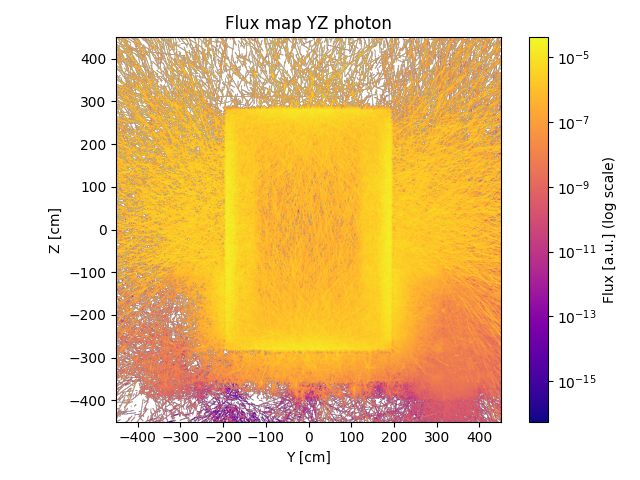
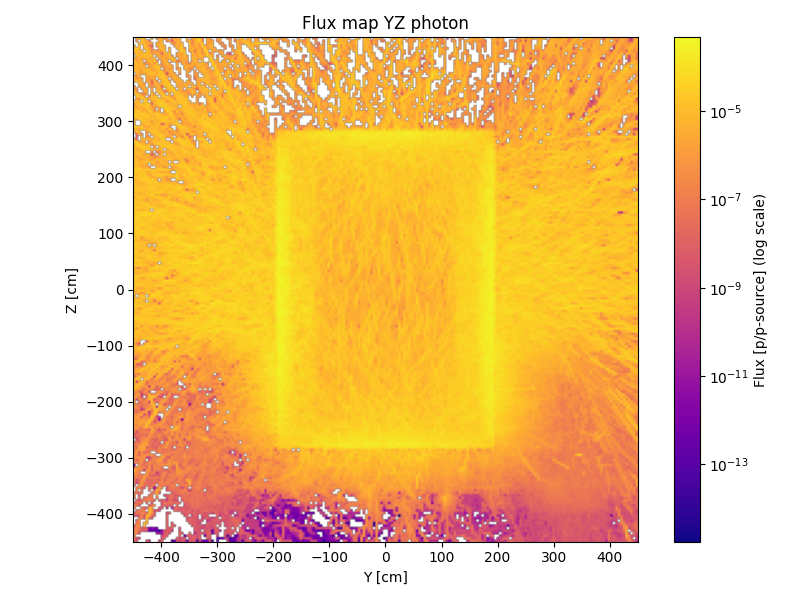
feat:add_plot_error_option

diff --git a/src/utils/post_preocessing/post_processing.py b/src/utils/post_preocessing/post_processing.py
@@ -14,7 +14,7 @@ def print_calculation_finished():
 
 def load_mesh_tally(cwd, statepoint_file: object, name_mesh_tally:str = "flux_mesh_tally", particule_type:str='neutron',
                     bin_number:int=400, lower_left:tuple=(-10.0, -10.0), 
-                    upper_right:tuple=(10.0, 10.0), zoom_x:tuple=(-10, 10), 
+                    upper_right:tuple=(10.0, 10.0), zoom_x:tuple=(-10, 10), plot_error:bool=False,
                     zoom_y:tuple=(-10.0, 10.0), plane:str = "xy", saving_figure:bool = True):
     """
     Load and plot the mesh tally from the statepoint file.
@@ -35,29 +35,81 @@ def load_mesh_tally(cwd, statepoint_file: object, name_mesh_tally:str = "flux_me
     """
     mesh_tally = statepoint_file.get_tally(name=name_mesh_tally)
     flux_data = mesh_tally.mean.reshape((bin_number, bin_number))
-    plt.imshow(flux_data, 
-            origin='lower', 
-            extent=[lower_left[0], upper_right[1], lower_left[1], upper_right[1]], 
+    flux_error = mesh_tally.std_dev.reshape((bin_number, bin_number))
+
+    if plot_error:
+        fig, axs = plt.subplots(1, 2, figsize=(14, 6))
+
+        # Plot flux_data
+        im0 = axs[0].imshow(
+            flux_data,
+            origin='lower',
+            extent=[lower_left[0], upper_right[1], lower_left[1], upper_right[1]],
             cmap='plasma',
-            norm=LogNorm(vmin=np.min(flux_data[flux_data!=0]), vmax=flux_data.max()))  
-    plt.colorbar(label='Flux [a.u.] (log scale)')
-    if plane == "xy":
-        plt.title(f"Flux map XY {particule_type}")
-        plt.xlabel('X [cm]')
-        plt.ylabel('Y [cm]')
-    elif plane == "xz":
-        plt.title(f'Flux map XZ {particule_type}')
-        plt.xlabel('X [cm]')
-        plt.ylabel('Z [cm]')
-    elif plane == "yz":
-        plt.title(f'Flux map YZ {particule_type}')
-        plt.xlabel('Y [cm]')
-        plt.ylabel('Z [cm]')
-    else:
-        raise ValueError("plane must be 'xy', 'xz', or 'yz'")
+            norm=LogNorm(vmin=np.min(flux_data[flux_data != 0]), vmax=flux_data.max())
+        )
+        axs[0].set_title(f"Flux map {plane.upper()} {particule_type}")
+        if plane == "xy":
+            axs[0].set_xlabel('X [cm]')
+            axs[0].set_ylabel('Y [cm]')
+        elif plane == "xz":
+            axs[0].set_xlabel('X [cm]')
+            axs[0].set_ylabel('Z [cm]')
+        elif plane == "yz":
+            axs[0].set_xlabel('Y [cm]')
+            axs[0].set_ylabel('Z [cm]')
+        else:
+            raise ValueError("plane must be 'xy', 'xz', or 'yz'")
+        axs[0].set_xlim(zoom_x[0], zoom_x[1])
+        axs[0].set_ylim(zoom_y[0], zoom_y[1])
+        fig.colorbar(im0, ax=axs[0], label="Flux [p/p-source] (log scale)")
+
+        # Plot flux_error
+        im1 = axs[1].imshow(
+            flux_error,
+            origin='lower',
+            extent=[lower_left[0], upper_right[1], lower_left[1], upper_right[1]],
+            cmap='plasma')
+        axs[1].set_title(f"Flux error map {plane.upper()} {particule_type}")
+        if plane == "xy":
+            axs[1].set_xlabel('X [cm]')
+            axs[1].set_ylabel('Y [cm]')
+        elif plane == "xz":
+            axs[1].set_xlabel('X [cm]')
+            axs[1].set_ylabel('Z [cm]')
+        elif plane == "yz":
+            axs[1].set_xlabel('Y [cm]')
+            axs[1].set_ylabel('Z [cm]')
+        axs[1].set_xlim(zoom_x[0], zoom_x[1])
+        axs[1].set_ylim(zoom_y[0], zoom_y[1])
+        fig.colorbar(im1, ax=axs[1], label="Flux error")
+
+    else: 
+        plt.figure(figsize=(8, 6))
+        im0 = plt.imshow(
+            flux_data,
+            origin='lower',
+            extent=[lower_left[0], upper_right[1], lower_left[1], upper_right[1]],
+            cmap='plasma',
+            norm=LogNorm(vmin=np.min(flux_data[flux_data != 0]), vmax=flux_data.max())
+        )
+        plt.title(f"Flux map {plane.upper()} {particule_type}")
+        if plane == "xy":
+            plt.xlabel('X [cm]')
+            plt.ylabel('Y [cm]')
+        elif plane == "xz":
+            plt.xlabel('X [cm]')
+            plt.ylabel('Z [cm]')
+        elif plane == "yz":
+            plt.xlabel('Y [cm]')
+            plt.ylabel('Z [cm]')
+        else:
+            raise ValueError("plane must be 'xy', 'xz', or 'yz'")
+        plt.xlim(zoom_x[0], zoom_x[1])
+        plt.ylim(zoom_y[0], zoom_y[1])
+        plt.colorbar(im0, label="Flux [p/p-source] (log scale)")
+
     plt.tight_layout()
-    plt.xlim(zoom_x[0], zoom_x[1])
-    plt.ylim(zoom_y[0], zoom_y[1])
     name_mesh_tally_saving = name_mesh_tally + ".png"
     if saving_figure:
         plt.savefig(cwd / name_mesh_tally_saving)

diff --git a/src/studies/reactor_study/secondary_source/source_using_weight_window/wwg_using/wwg_using.py b/src/studies/reactor_study/secondary_source/source_using_weight_window/wwg_using/wwg_using.py
@@ -32,7 +32,7 @@ settings = openmc.Settings()
 batches_number= 1
 settings.batches = batches_number
 settings.inactive = 0
-settings.particles = 1000000 # 60000000
+settings.particles = 500000 # 60000000
 settings.source = openmc.FileSource('surface_source.h5')
 settings.photon_transport = True
 
@@ -46,11 +46,11 @@ plot_weight_window(weight_window=ww_corrected[1], index_coord=15, energy_index=0
 settings.weight_windows = ww_corrected
 
 mesh_tally_neutron_yz = mesh_tally_plane(name_mesh_tally = "flux_mesh_neutrons_yz", particule_type='neutron', plane="yz",
-                                      bin_number=800, lower_left=(-450.0, -450.0), upper_right=(450.0, 450.0),
+                                      bin_number=200, lower_left=(-450.0, -450.0), upper_right=(450.0, 450.0),
                                       thickness= 10.0, coord_value=0.0)
 
 mesh_tally_photon_yz = mesh_tally_plane(name_mesh_tally = "flux_mesh_photons_yz", particule_type='photon', plane="yz",
-                                      bin_number=800, lower_left=(-450.0, -450.0), upper_right=(450.0, 450.0),
+                                      bin_number=200, lower_left=(-450.0, -450.0), upper_right=(450.0, 450.0),
                                       thickness= 10.0, coord_value=0.0)
 
 # Neutron flux tally on the CALCULATION_CELL
@@ -81,8 +81,8 @@ statepoint_file = openmc.StatePoint(f'statepoint.{batches_number}.h5')
 flux_tally_neutron = statepoint_file.get_tally(name="flux_tally_neutron")
 
 
-load_mesh_tally(cwd = CWD, statepoint_file = statepoint_file, name_mesh_tally="flux_mesh_neutrons_yz", particule_type="neutron", bin_number=800,
-                lower_left=(-450.0, -450.0), upper_right=(450.0, 450.0), zoom_x=(-450, 450), zoom_y=(-450, 450), plane="yz", saving_figure=True)
+load_mesh_tally(cwd = CWD, statepoint_file = statepoint_file, name_mesh_tally="flux_mesh_neutrons_yz", particule_type="neutron", bin_number=200,
+                lower_left=(-450.0, -450.0), upper_right=(450.0, 450.0), zoom_x=(-450, 450), zoom_y=(-450, 450), plane="yz", saving_figure=True, plot_error=False)
 
-load_mesh_tally(cwd = CWD, statepoint_file = statepoint_file, name_mesh_tally="flux_mesh_photons_yz", particule_type="photon", bin_number=800,
-                lower_left=(-450.0, -450.0), upper_right=(450.0, 450.0), zoom_x=(-450, 450), zoom_y=(-450, 450), plane="yz", saving_figure=True)
+load_mesh_tally(cwd = CWD, statepoint_file = statepoint_file, name_mesh_tally="flux_mesh_photons_yz", particule_type="photon", bin_number=200,
+                lower_left=(-450.0, -450.0), upper_right=(450.0, 450.0), zoom_x=(-450, 450), zoom_y=(-450, 450), plane="yz", saving_figure=True, plot_error=False)
